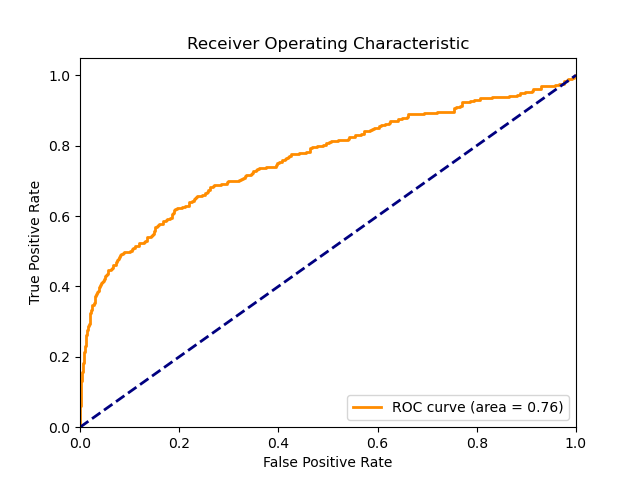
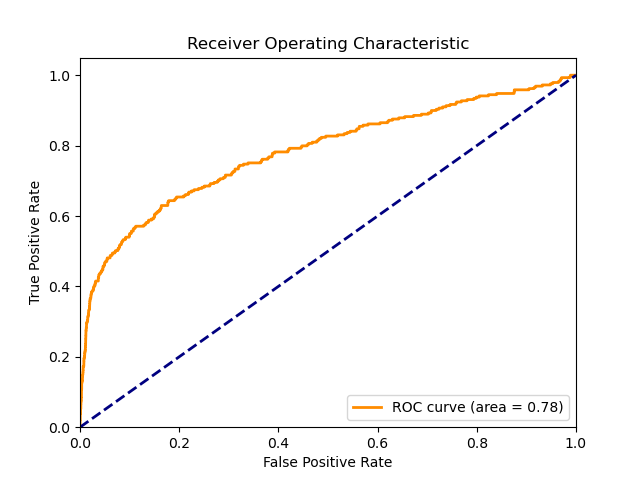
Update finetuned ROC curve

Changed region(s): [[0.125, 0.1562, 0.9062, 0.7188], [0.125, 0.75, 0.1562, 0.7812]]

diff --git a/src/gcn/hiv_gcn.py b/src/gcn/hiv_gcn.py
@@ -27,9 +27,9 @@ class GraphConvNet(_nn.Module):
         self.conv1 = self.ConvBlock(self.num_channel, 16)
         self.conv2 = self.ConvBlock(16, 32)
         self.conv3 = self.ConvBlock(32, 64)
-        print('wtf')
+        self.conv4 = self.ConvBlock(64, 128)
         self.linear_layers = _nn.Sequential(
-            _nn.Linear(64, 64),
+            _nn.Linear(128, 64),
             _nn.ReLU(),
             _nn.Linear(64, num_classes)
         )
@@ -39,6 +39,7 @@ class GraphConvNet(_nn.Module):
         hidden = self.conv1(x, edge_list)
         hidden = self.conv2(hidden, edge_list)
         hidden = self.conv3(hidden, edge_list)
+        hidden = self.conv4(hidden, edge_list)
         hidden = _geo_nn.global_mean_pool(hidden, batch)
         return self.linear_layers(hidden)
 

diff --git a/src/gcn/main.py b/src/gcn/main.py
@@ -6,7 +6,7 @@ import hiv_gcn, utils
 
 if __name__ == "__main__":
     device = 'cuda' if _cuda_available() else 'cpu'
-    num_epoch = 10
+    num_epoch = 200
 
     train_dataloader, test_dataloader = utils.load_dataloader()
     net = hiv_gcn.GraphConvNet(train_dataloader.dataset.num_features, 2)
@@ -16,5 +16,5 @@ if __name__ == "__main__":
     loss_fn = _nn.CrossEntropyLoss()
     hiv_gcn.train(net, loss_fn, optimizer, train_dataloader, test_dataloader, device, num_epoch)
     fpr, tpr, auc = hiv_gcn.eval(net, test_dataloader, device)
-    utils.plot_roc_curve(fpr, tpr, auc, "test.png")
+    utils.plot_roc_curve(fpr, tpr, auc, "../../img/test.png")
 
